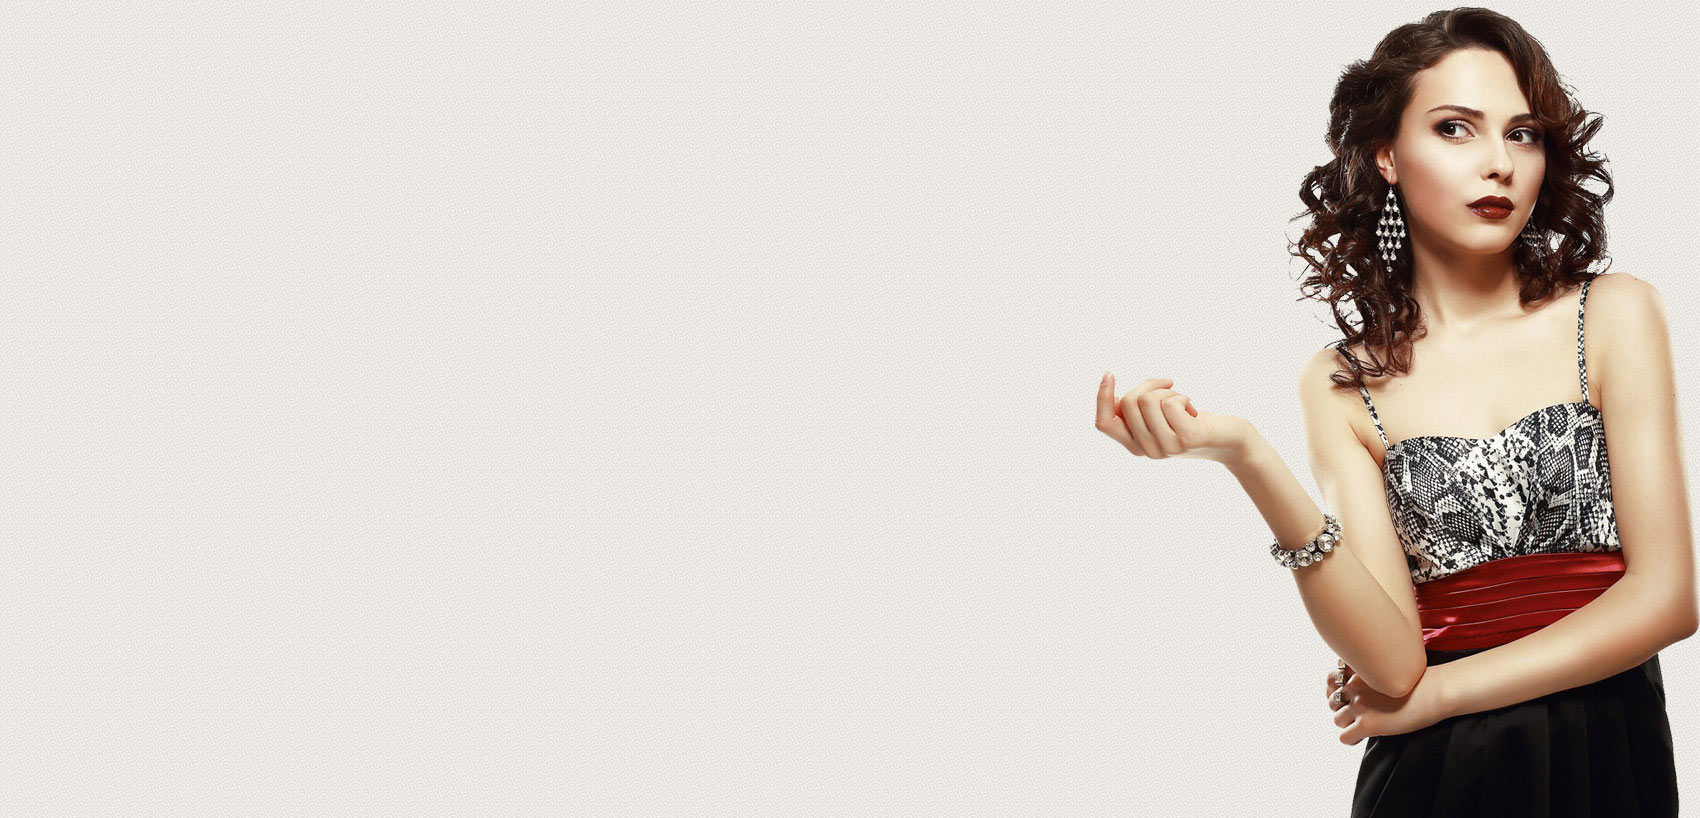
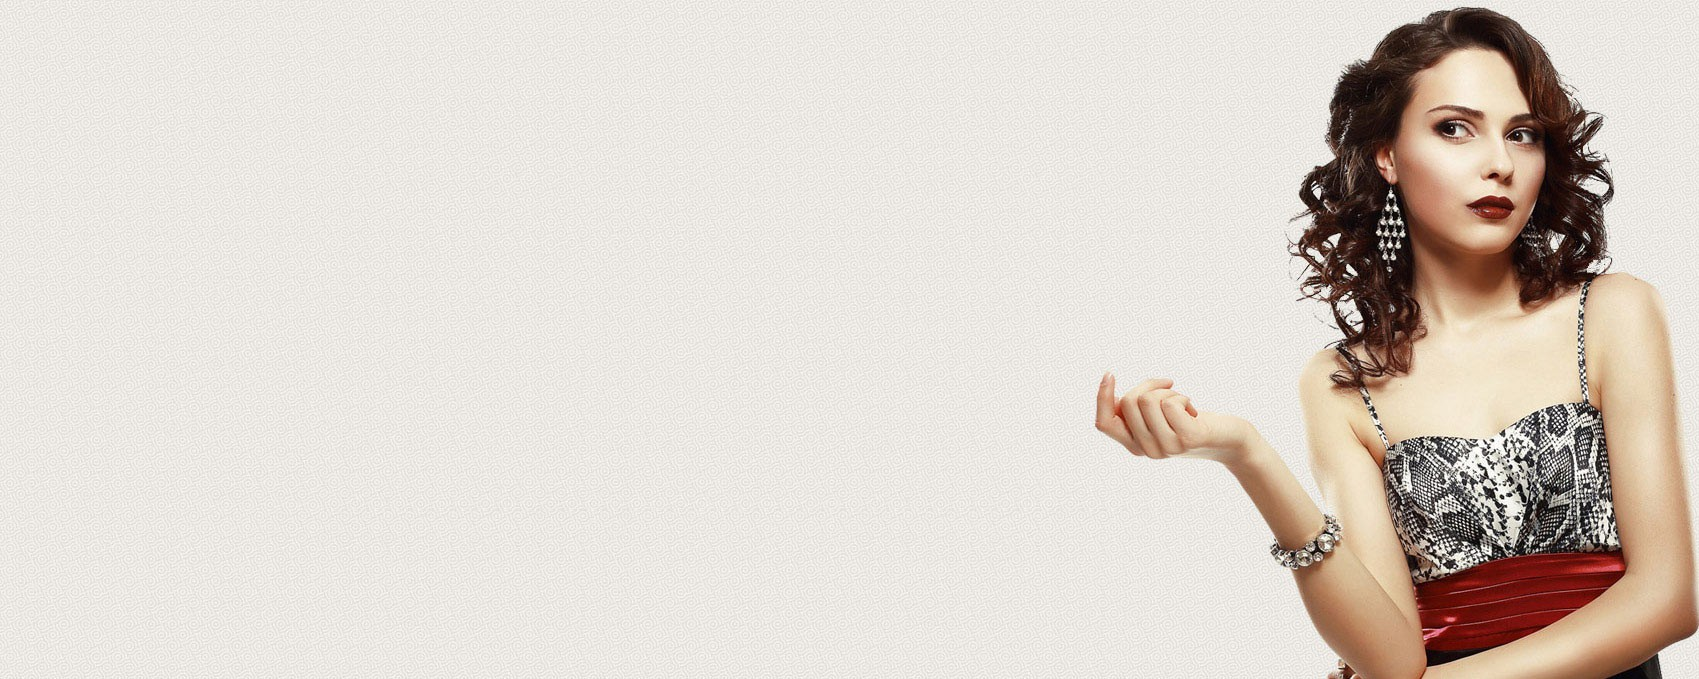
fix header style

Changed region(s): [[0.6239, 0.0, 1.0, 1.0]]

diff --git a/src/Router.jsx b/src/Router.jsx
@@ -1,16 +1,24 @@
 import React from 'react'
-import { BrowserRouter as Router, Route } from 'react-router-dom'
-
+import { BrowserRouter as Router, Route, Switch } from 'react-router-dom'
 import Loader from '@/components/blocks/global/Loader'
-
-import { LANDING_PAGE_PATH } from '@/constants'
+import { LANDING_PAGE_PATH, LANDING_PAGE_PATH_BRANDS, LANDING_PAGE_PATH_DESIGNERS, LANDING_PAGE_PATH_ABOUT_US, LANDING_PAGE_PATH_CONTACT } from '@/constants'
 
 const LandingPage = React.lazy(() => import('@/components/pages/Landing'))
+const Brands = React.lazy(() => import('@/components/pages/Brands'))
+const About = React.lazy(() => import('@/components/pages/About'))
+const Contact = React.lazy(() => import('@/components/pages/Brands'))
+const Designers = React.lazy(() => import('@/components/pages/Brands'))
 
 export default () => (
   <Router>
-    <React.Suspense fallback={<Loader />}>
-      <Route exact path={LANDING_PAGE_PATH} component={LandingPage} />
+    <React.Suspense fallback={<Loader/>}>
+      <Switch>
+        <Route exact path={LANDING_PAGE_PATH} component={LandingPage} />
+        <Route path={LANDING_PAGE_PATH_BRANDS} component={Brands} />
+        <Route path={LANDING_PAGE_PATH_DESIGNERS} component={Designers} />
+        <Route path={LANDING_PAGE_PATH_ABOUT_US} component={About} />
+        <Route path={LANDING_PAGE_PATH_CONTACT} component={Contact} />
+      </Switch>
     </React.Suspense>
   </Router>
 )

diff --git a/src/components/blocks/global/Header/Logo/styles.js b/src/components/blocks/global/Header/Logo/styles.js
@@ -1,14 +1,49 @@
 import styled from 'styled-components'
 
 export default styled.div`
-  height: 85%;
-  color: ${props => props.theme.colors.darkgray};
-  background-image:url('ssr.jpg');
-  display: inline-block;
-  width: 100%;
+  //height: 300px;
+  // height: 77%;
+  // color: ${props => props.theme.colors.darkgray};
+  // max-width: 100%;
+  // margin: 0 auto;
+  // background-position: 85% 1%;
+  // background-repeat: no-repeat;
+  // background-size: cover;
+  // width: 100%;
+     display: flex;
+     position: relative;
 
   img {
-    height: 100px;
-    width: 100px;
+    position: relative;
+    width: 100%;
+    height: 100%;
+    color: darkgray; 
+    margin: 0 auto;
+    //background-position: 85% 1%;
+    background-repeat: no-repeat; 
+    background-size: cover; 
+    display: flex;
+    max-width: 100%;
+    min-height: 40%;
+
+    object-fit: cover;
+    object-position: top right;
+  }
+
+  h2 {
+    position: absolute;
+    z-index: 9999;
+
+    top: 3em;
+    left: 7em;
+    font-size: 5vw;
+   
+    color: dark;    
+    font-family: segoe print;  
+    padding-left: 1%;
+    padding-right: 1%;
+    border-radius: 5px;
+    transform: translate(-50%, -50%);
+    background: rgba(204, 255, 255, 0.2);
   }
 `

diff --git a/src/components/blocks/global/Header/Menu/styles.js b/src/components/blocks/global/Header/Menu/styles.js
@@ -1,15 +1,33 @@
 import styled from 'styled-components'
 
 export default styled.menu`
+  display: flex;
+  flex-direction: row-reverse;
   height: 15%;
   color: ${props => props.theme.colors.primaryDark};
   text-align: right;
-  display: block;
   padding: 10px;
 
   li {
     display : inline; 
-    margin-right: 10px;
+    margin-right: 30px;
     cursor: pointer;
+
+    font-weight: 700;
+    color: #333;
+    font-size: 14px;
+    text-decoration: none;
+    text-transform: uppercase;
+    letter-spacing: 1px;
+  }
+
+  @media (max-width: 586px) {
+    justify-content: center;
+    text-align: center;
+    min-height: min-content;
+
+    li{
+      display: block;
+    }  
   }
 `

diff --git a/src/components/blocks/global/Header/Menu/component.jsx b/src/components/blocks/global/Header/Menu/component.jsx
@@ -1,15 +1,15 @@
 import React from 'react'
 import Menu from './styles'
 
-const pages = ['Home', 'Service', 'About us', 'Contact'];
+const pages = ['HOME', 'BRANDS', 'DESIGNERS', 'ABOUT US', 'CONTACT'];
 const listItems = pages.map((page, index) =>
-    <li key={index}>{page}</li>
+  <li key={index}>{page}</li>
 );
 
 export default () => (
   <Menu>
-      <div className="nav-inner">
-        <ul>{listItems}</ul>
-      </div>
+    <div className="nav-inner">
+      <ul>{listItems}</ul>
+    </div>
   </Menu>
 )

diff --git a/src/theme/GlobalStyle.js b/src/theme/GlobalStyle.js
@@ -5,8 +5,7 @@ export default createGlobalStyle`
 
   body {
     margin: 0;
-    background-color: ${props => props.theme.colors.dark};
-    
+    background-color: ${props => props.theme.colors.white};
     color: ${props => props.theme.colors.font};
     font-weight: ${props => props.theme.fontWeights.normal};
     font-family: ${props => props.theme.fontFamily}

diff --git a/src/components/blocks/global/Header/styles.js b/src/components/blocks/global/Header/styles.js
@@ -1,7 +1,8 @@
 import styled from 'styled-components'
 
 export default styled.header`
-  height: 256px;
+  display: flex;
+  flex-direction: column;
   background-color: ${props => props.theme.colors.dark};
   color: ${props => props.theme.colors.primaryDark};
   font-size: ${props => props.theme.fontSizes.weryBig};

diff --git a/src/constants/paths.js b/src/constants/paths.js
@@ -1,3 +1,7 @@
 // Place here Paths constants (router paths)
 
 export const LANDING_PAGE_PATH = '/'
+export const LANDING_PAGE_PATH_BRANDS = '/brands'
+export const LANDING_PAGE_PATH_DESIGNERS = '/designers'
+export const LANDING_PAGE_PATH_ABOUT_US = '/about'
+export const LANDING_PAGE_PATH_CONTACT = '/contact'

diff --git a/src/components/blocks/global/Header/Logo/component.jsx b/src/components/blocks/global/Header/Logo/component.jsx
@@ -3,6 +3,9 @@ import Logo from './styles'
 
 export default () => (
    <Logo>
-      <div>7777777777</div>
+      <h2>
+         <span>Fashionable clothes <br/>for every day.</span>
+      </h2>
+      <img alt="photo_not_uploaded" src="ssr.jpg"></img>
    </Logo>
 ) 

diff --git a/src/components/pages/Landing/component.jsx b/src/components/pages/Landing/component.jsx
@@ -3,13 +3,11 @@ import StandardLayout from '@/components/layouts/Standard'
 import Landing from './styles'
 
 const LandingPage = () => (
-
   <StandardLayout>
     <Landing>
       Page center!
     </Landing>
   </StandardLayout>
-
 )
 
 export default LandingPage

diff --git a/src/components/pages/Designers/component.jsx b/src/components/pages/Designers/component.jsx
@@ -1,0 +1,8 @@
+import React from 'react'
+import StandardLayout from '@/components/layouts/Standard'
+
+export default () => (
+    <StandardLayout>
+        <div>designers</div>
+    </StandardLayout>
+)

diff --git a/src/components/pages/Contact/component.jsx b/src/components/pages/Contact/component.jsx
@@ -1,0 +1,8 @@
+import React from 'react'
+import StandardLayout from '@/components/layouts/Standard'
+
+export default () => (
+    <StandardLayout>
+        <div>contact</div>
+    </StandardLayout>
+)

diff --git a/src/components/pages/Brands/component.jsx b/src/components/pages/Brands/component.jsx
@@ -1,0 +1,8 @@
+import React from 'react'
+import StandardLayout from '@/components/layouts/Standard'
+
+export default () => (
+    <StandardLayout>
+        <div>brands</div>
+    </StandardLayout>
+)
